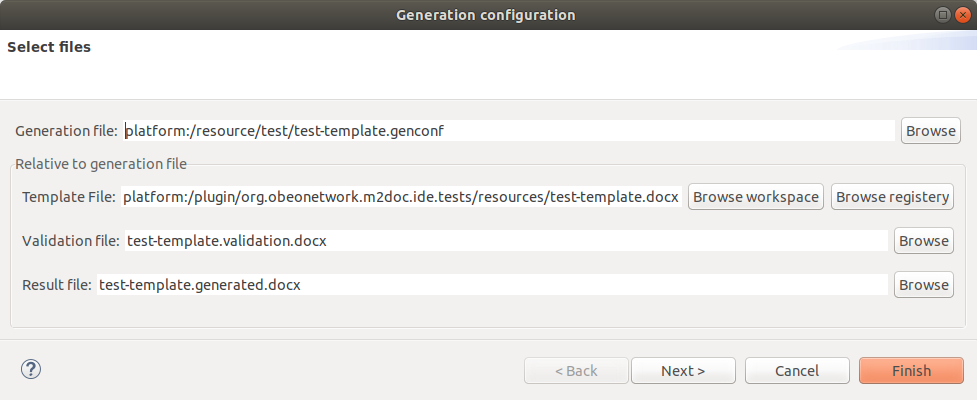
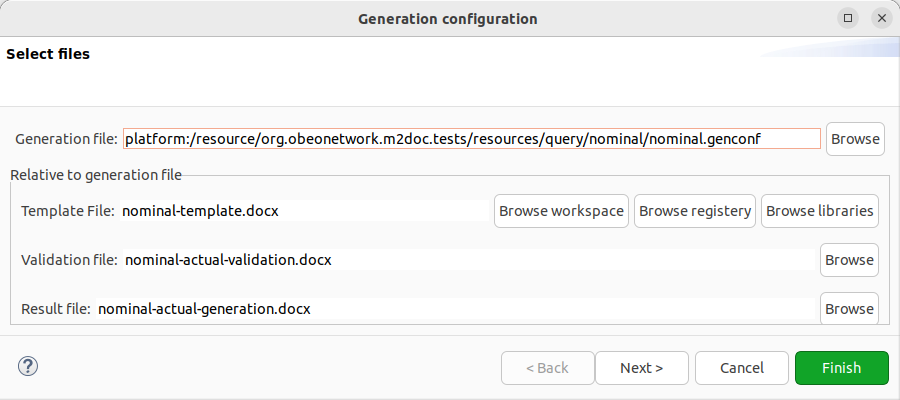
Added template libraries documentation.

diff --git a/ref-doc/nightly/index.md b/ref-doc/nightly/index.md
@@ -157,7 +157,11 @@ At this point you should be on the first page of the generation configuration wi
 
 ![The Generation Configuration Wizard.]({{page.relativePath}}/ref-doc/nightly/images/Generation%20Configuration%20Wizard1.png "The Generation Configuration Wizard.")
 
-On this page you can select the path of the generation configuration .genconf file. It can be changed to create a copy of an existing file for instance. Other file paths are relative to the generation configuration file. This allow to move a folder containing all the files needed for a generation without breaking the generation configuration. The template can be selected from the workspace or the [Template registry](index.html#template-registry). In the later case the path will be absolute to reference the template in the deployed plug-ins.
+On this page you can select the path of the generation configuration .genconf file. It can be changed to create a copy of an existing file for instance. Other file paths are relative to the generation configuration file. This allow to move a folder containing all the files needed for a generation without breaking the generation configuration. The template can be selected from the workspace, the [Template registry](index.html#template-registry), or [Template libraries](index.html#template-libraries):
+
+* workspace: allows to browse templates in the workspace.
+* [Template registry](index.html#template-registry): allows to browse templates in deployed plug-ins.
+* [Template libraries](index.html#template-libraries) allows to browse templates in template libraries.
 
 The next page of the wizard is dedicated to variables and binding values to them:
 
@@ -526,6 +530,32 @@ For example:
 
 * Name: `m:import:org.obeonetwork.m2doc.rcptt.a.ServiceClassA`
 * Value: `org.obeonetwork.m2doc.rcptt.a` 
+
+### Template Libraries
+
+Template libraries are a list of paths from the file system. They can be used to share M2Doc templates across environment via a network file system for instance. M2Doc will scan provided library paths for template with one model element parameter and provides menu to launch the generation when a compatible element is selected.
+
+First you will need to add path to your libraries using the M2Doc/libraries preference page. Select the Window Preferences menu:
+
+![The preferences menu.]({{page.relativePath}}/ref-doc/nightly/images/Preferences%20menu.png "The preferences menu.")
+
+Then select the M2Doc/Libraries page:
+
+![The libraries preferences page.]({{page.relativePath}}/ref-doc/nightly/images/Libraries%20preferences.png "The libraries preferences page.")
+
+You can use this page to add/remove library paths. Once you are done, you can click the apply and close button to validate your changes or the cancel button to cancel them.
+
+In this example the selected path contains a template with one parameter of type EPackage. So we will demonstrate menus by selecting an EPackage object. But in your case it can be any model element type.
+
+You can now select a model element that has at least one compatible template in one of the provided libraries and launch a generation using the "M2Doc Generate with Template Library" menu. You can select your element and right click on it:
+
+![The M2Doc Generate with Template Library menu.]({{page.relativePath}}/ref-doc/nightly/images/M2Doc%20Generate%20with%20Template%20Library menu.png "The M2Doc Generate with Template Library menu.")
+
+Selecting this menu will open the following dialog:
+
+![The Generate with Template Library dialog.]({{page.relativePath}}/ref-doc/nightly/images/Generate%20with%20Template%20Library%20dialog.png "The Generate with Template Library dialog.")
+
+In this dialog, you can select the template you want to generate with from the libraries and the output folder. The selected element will be used as the parameter of the generation. You can then click the finish button to launch the generation or the cancel button to cancel your action.
 
 ## Providing new services
 
